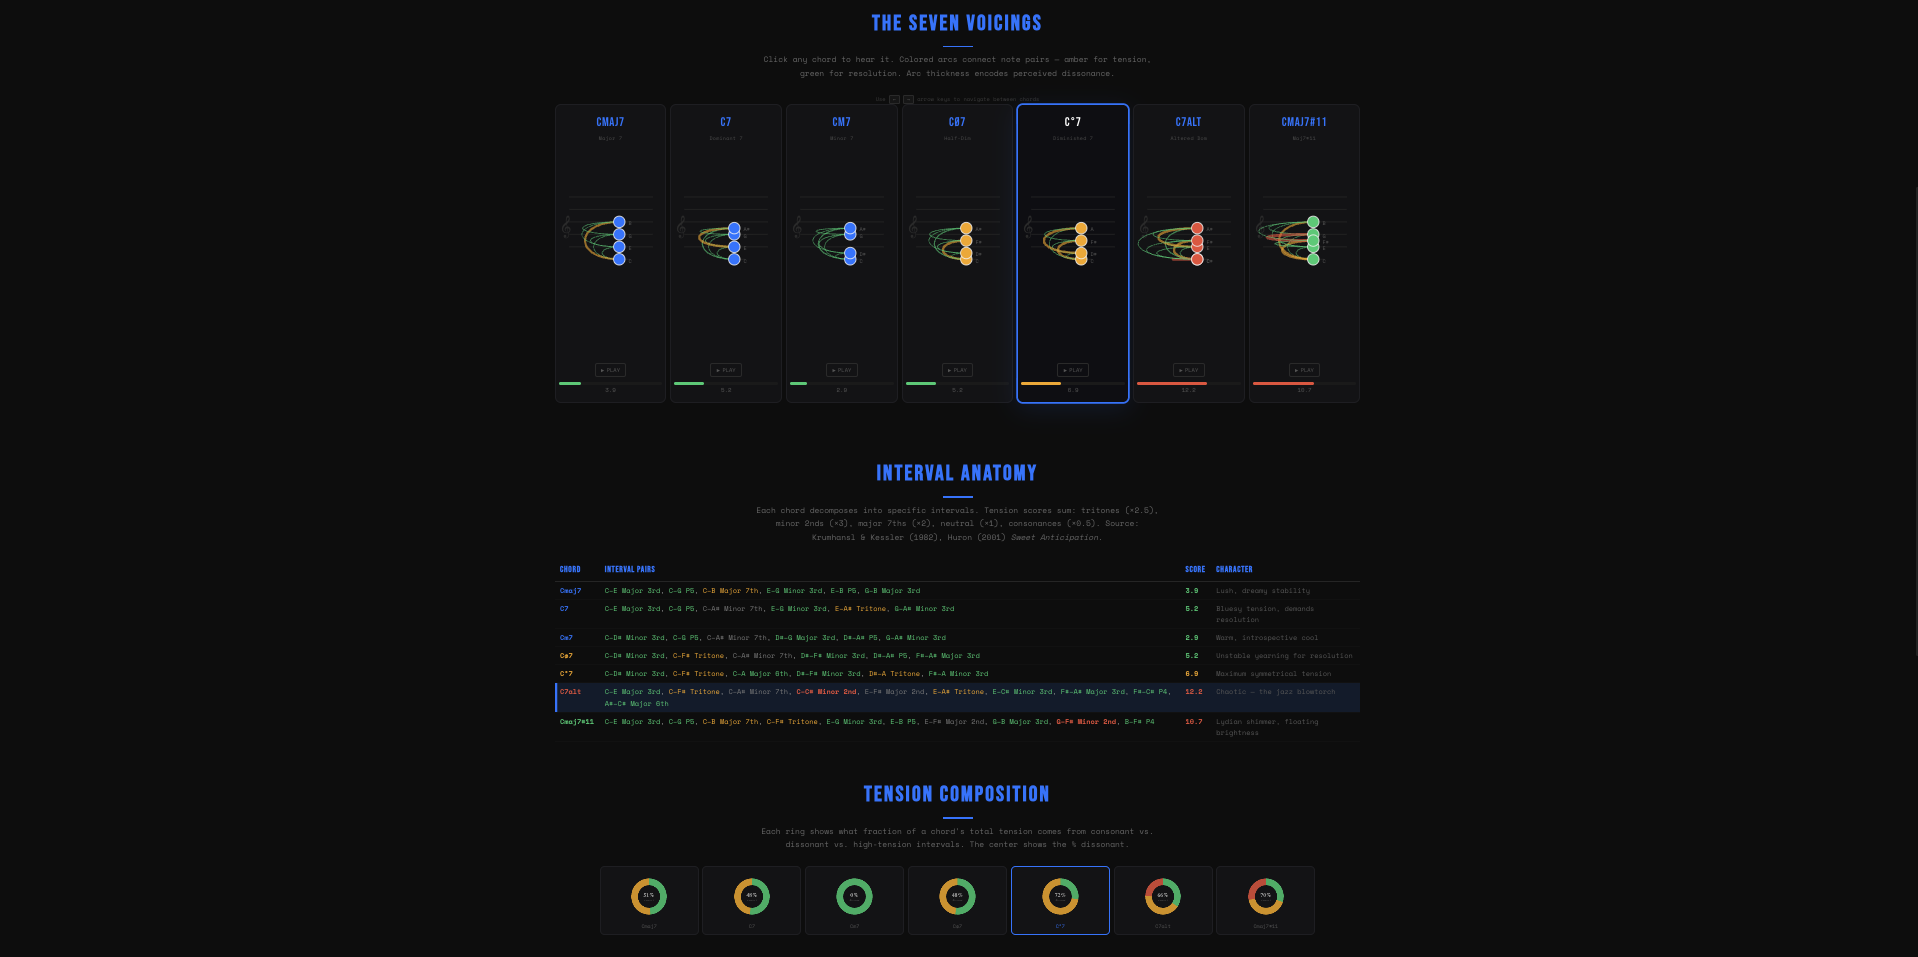
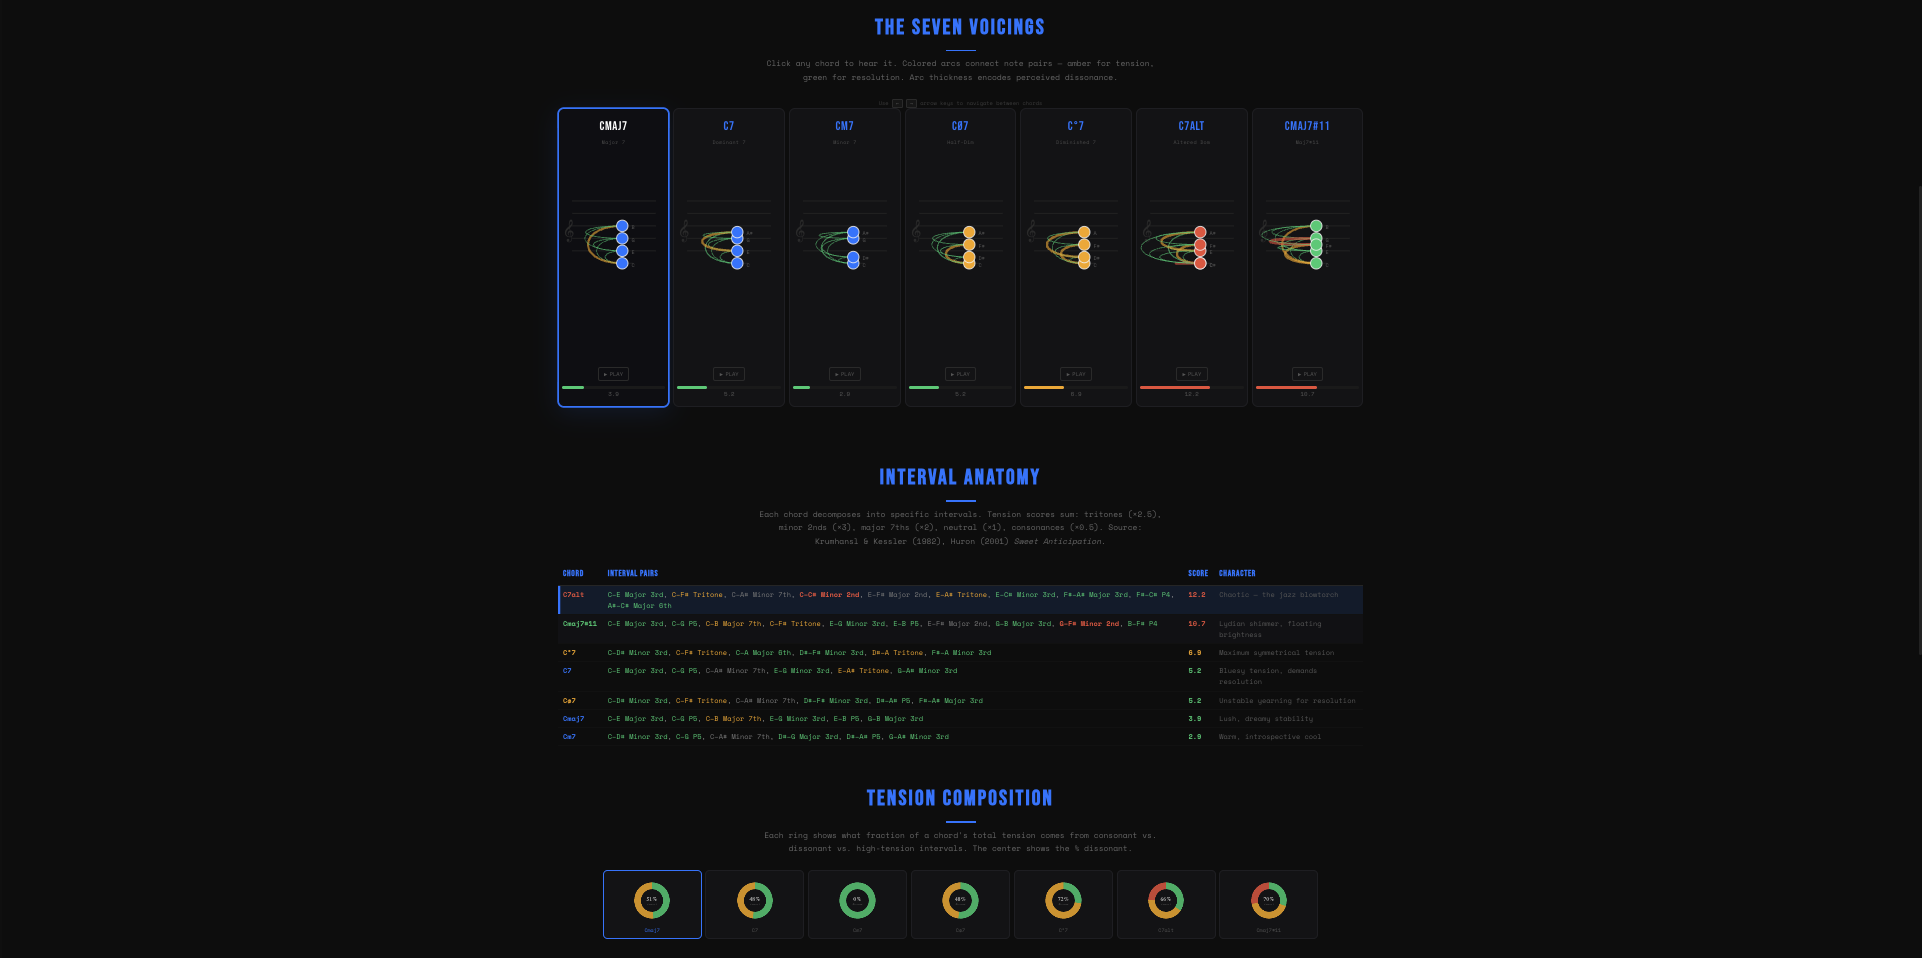
feat: add new work for jazz chord

diff --git a/task_0724-jazz-chord-tension-workspace/instruction.md b/task_0724-jazz-chord-tension-workspace/instruction.md
@@ -1,14 +1,10 @@
 # Chord selection gets out of sync across the analysis views
 
-I keep losing track of which chord I am actually looking at when I move between the voicing cards, Interval Anatomy, and Tension Composition.
+Hey, I noticed the chord selection gets pretty confusing and buggy as you move between the different sections on the page.
 
-Those three sections are different views of the same seven chords, so selecting a chord in any one of them should make that chord the single current selection everywhere. Right now I can choose one chord in the interval table, move to another chord elsewhere, and end up with different sections still indicating different chords.
+When I click on C7alt inside the Interval Anatomy section, the voicing cards end up highlighting a completely different chord as selected, even though C7alt is clearly the row I just clicked. I ran into a similar issue after picking a chord in Tension Composition and then using the arrow keys to step through chords—instead of moving from the one I just chose, it jumps around and continues from some older chord I was looking at earlier.
 
-The arrow-key navigation makes the mismatch more confusing. After I choose a chord from Tension Composition, pressing left or right should continue from that chord. Instead, after switching between sections, the arrow keys can jump from an older selection rather than the chord I just chose.
-
-Please make selection handoffs consistent whether I use a voicing card, an Interval Anatomy row, a Tension Composition cell, or the left/right arrow keys. There should never be more than one chord presented as selected, and the interval row for the current chord should have a clear selected treatment just like the other analysis views. Keyboard activation of the selectable analysis controls should behave the same as clicking them.
-
-The custom chord builder is separate from this navigation and should continue working normally.
+The same thing happens in reverse: clicking a chord card in the voicings section can leave Interval Anatomy displaying something else entirely. Moving through chords using the keyboard should feel just as consistent as clicking them with the mouse. Whichever chord I most recently picked—whether by clicking or using arrow keys—should be the one that stays actively selected across the entire page. The custom chord builder has been working fine through all of this, so that shouldn't be touched.
 
 The broken app currently looks like this:
 
